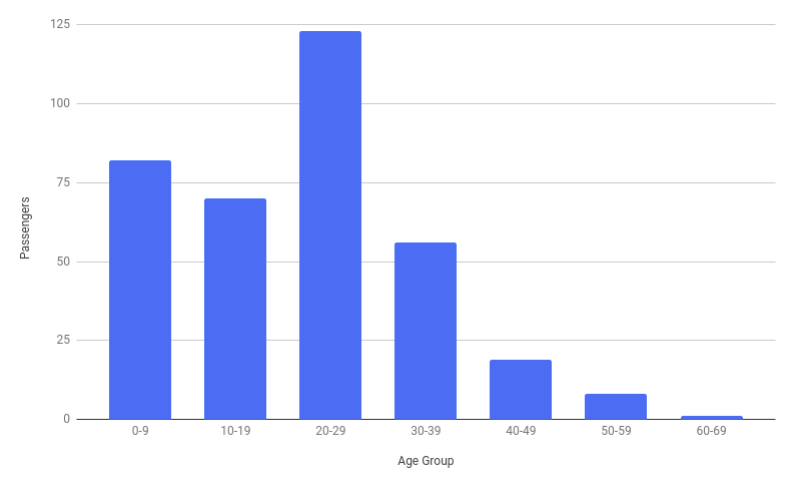
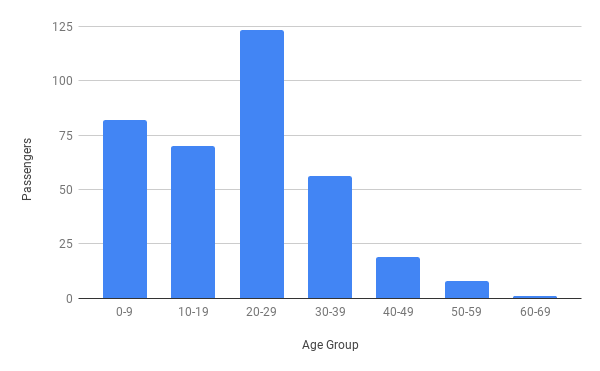
Update Immigration miniproject with more example results.

diff --git a/immigration_project/README.md b/immigration_project/README.md
@@ -14,7 +14,7 @@ Find passenger lists for immigrants to United Staes during the Irish famine at h
 
 https://aad.archives.gov/aad/series-description.jsp?s=639&cat=GP44&bc=,sl&col=1002
 
-### Download a table
+### Download a .csv table
 
 Find a way to download a complete passanger manifest:
 1. Find a journey to review from the list of ships to arrive.
@@ -96,4 +96,8 @@ Once you have the family status for each passenger, create another statistical o
 
 Finally, output the new more finely grained statistic as another csv file. You can do this by copying and modifying the previous csv output code.
 
-Create another graph and marvel the results. Test how your code works with another ships passenger list.
+The csv should look like this: [age_group_totals_example.csv](./age_group_totals_example2.csv).  
+And the bar plot (with Google Sheets) should look like this:
+![Passenger age breakdown](./chart2.png)
+
+Create another graph and be amazed by the results. Test how your code works with another ships passenger list.
